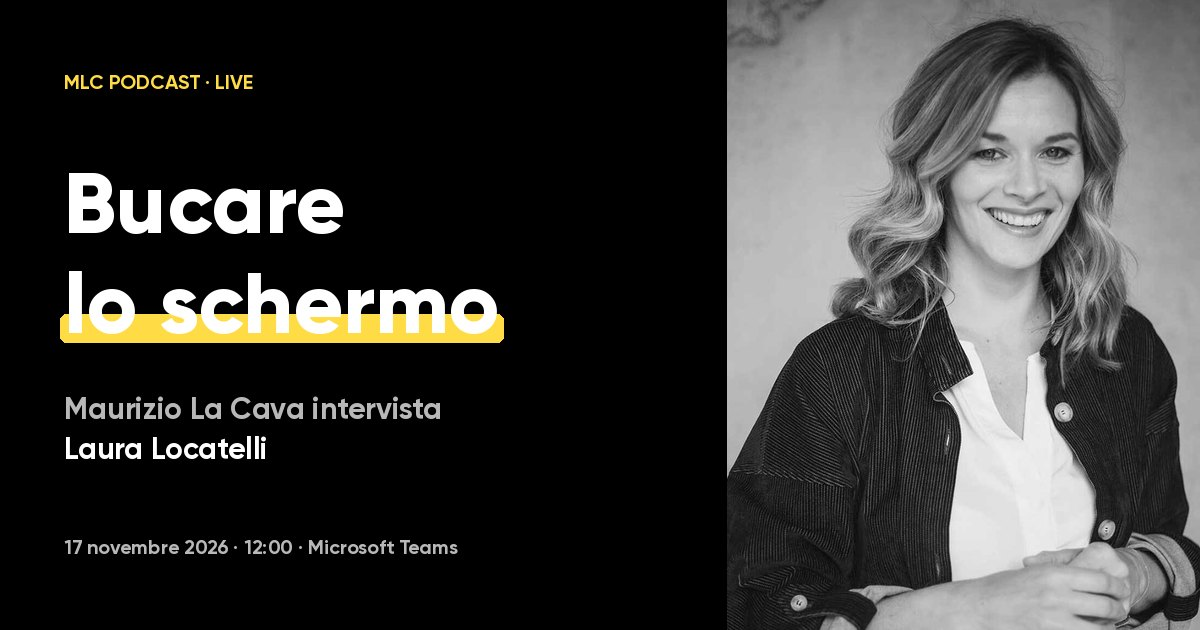
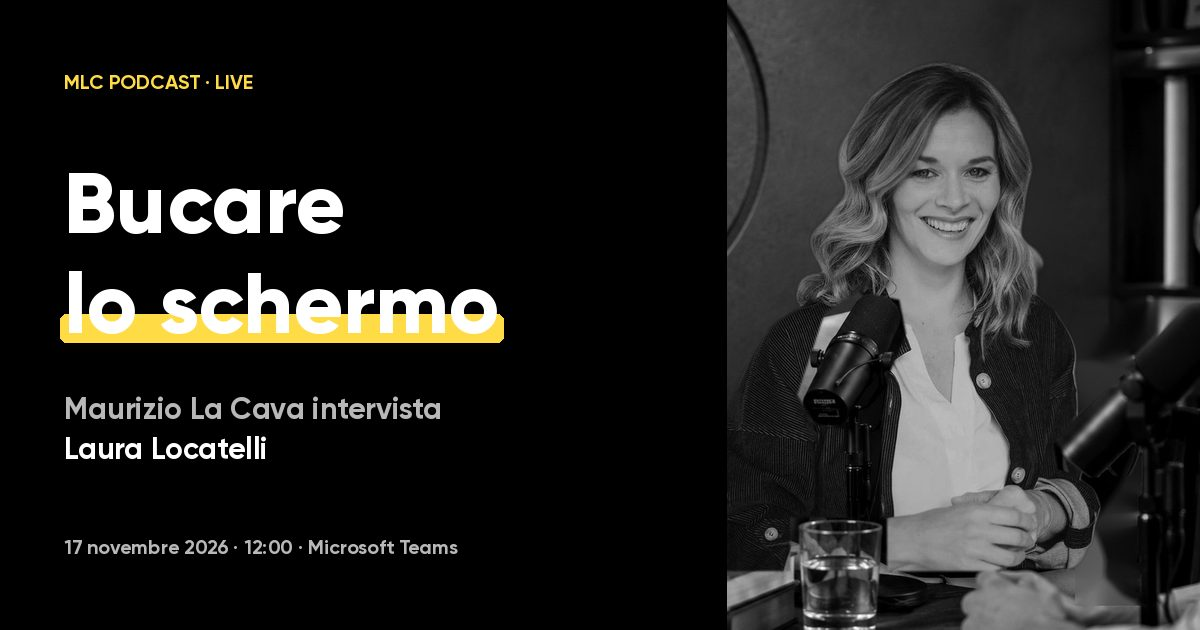
Aggiornamento landing

diff --git a/CONFIRMATION-EMAIL.html b/CONFIRMATION-EMAIL.html
@@ -132,8 +132,7 @@
         <tr>
           <td style="padding:26px 0 8px;font-size:13px;line-height:1.6;color:#4E4E4E;
                      border-top:1px solid #E6E6E6;">
-            <em>P.S. Se all'ultimo non riesci a esserci, niente paura: la registrazione ti arriva
-            il giorno dopo.</em>
+            <em>P.S. Se all'ultimo non riesci a esserci, niente paura. Riceverai la registrazione.</em>
           </td>
         </tr>
 

diff --git a/EMAIL-SEQUENCE.md b/EMAIL-SEQUENCE.md
@@ -22,7 +22,7 @@ Se l'email 2 ripete l'email 1, il click-to-open crolla.
 | 9 | Post · registrazione | mer 18 nov, 10:00 | Laura di MLC | solo iscritti |
 
 Le email 5–9 devono essere filtrate sul tag, altrimenti il link Teams arriva a chi non è iscritto.
-La 9 resta di mercoledì: nella landing e nella conferma promettiamo la registrazione "il giorno dopo".
+La 9 parte il giorno dopo il live: la registrazione è promessa in landing e in conferma.
 
 ---
 
@@ -51,9 +51,9 @@ Dove metto le mani, quante pause faccio, come apro.
 
 Funzionano. Fino al momento in cui si sentono.
 
-Laura Locatelli fa l'attrice da più di vent'anni (se segui il Milanese Imbruttito,
-la conosci già: è sua moglie). E da dieci anni fa una cosa che sembra un paradosso:
-allena manager, imprenditori e professionisti a **non recitare** quando parlano
+Laura Locatelli fa l'attrice da più di vent'anni, e dal 2016 lavora al fianco del
+Milanese Imbruttito. Da dieci anni fa anche una cosa che sembra un paradosso.
+Allena manager, imprenditori e professionisti a **non recitare** quando parlano
 davanti a una sala o a una webcam.
 
 **Martedì 17 novembre alle 12:00** è ospite del podcast MLC. Maurizio la intervista
@@ -65,7 +65,7 @@ Live, un'ora, gratis, su Teams.
 A presto,
 Laura
 
-*P.S. Se il 17 non riesci, iscriviti lo stesso: la registrazione ti arriva il giorno dopo.*
+*P.S. Se il 17 non riesci, iscriviti lo stesso. Riceverai la registrazione.*
 
 ---
 
@@ -102,7 +102,7 @@ Un'ora live, gratis, con domande dal pubblico alla fine.
 
 Maurizio
 
-*P.S. Non riesci a esserci live? Iscriviti comunque e ti mandiamo la registrazione.*
+*P.S. Non riesci a esserci live? Iscriviti comunque, riceverai la registrazione.*
 
 ---
 
@@ -131,7 +131,7 @@ podcast.
 
 Laura
 
-*P.S. Non ce la fai martedì? Iscriviti lo stesso, la registrazione arriva il giorno dopo.*
+*P.S. Non ce la fai martedì? Iscriviti lo stesso, riceverai la registrazione.*
 
 > Nota: se in risposta all'email di conferma arrivano domande vere, usare quelle al posto
 > degli esempi (e cambiare la frase introduttiva in "Ne abbiamo già ricevute alcune").
@@ -166,7 +166,7 @@ Nel caso invece ti interessasse...
 
 Laura
 
-*P.S. Se all'ultimo non riesci a esserci, niente paura: la registrazione ti arriva il giorno dopo.*
+*P.S. Se all'ultimo non riesci a esserci, niente paura. Riceverai la registrazione.*
 
 ---
 
@@ -193,7 +193,7 @@ Gli ultimi minuti sono per le domande.
 A domani,
 Laura
 
-*P.S. Se succede qualcosa, la registrazione ti arriva il giorno dopo.*
+*P.S. Se succede qualcosa, riceverai la registrazione.*
 
 ---
 
